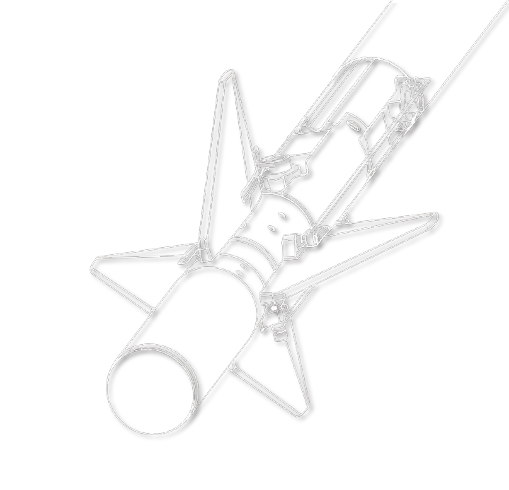
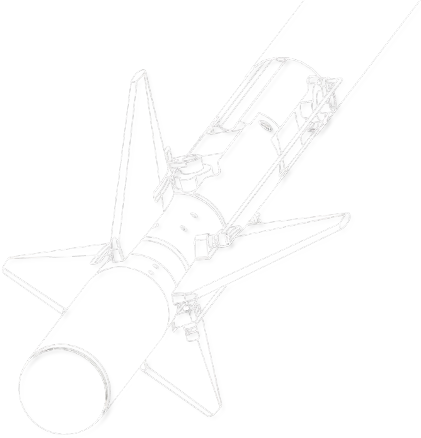
quote updates

diff --git a/printing.html b/printing.html
@@ -43,8 +43,14 @@
                 Rapid 3D Prototyping at the University of Houston
             </h3>
             <br>
-            <a target="_blank" rel="noopener noreferrer" href="https://forms.gle/TJZeQ2GE15b8MYX97" class="button"><b>Request Quote</b></a>
-            <p>*Quotes are sent within 1 Business Day or less</p>
+            <p>
+                Accelerate your product development through rapid 3D printing protoyping. Ensure your design is ready for fabrication to meet your project needs.
+            </p>
+            <br>
+            <a target="_blank" rel="noopener noreferrer" href="https://forms.gle/TJZeQ2GE15b8MYX97" class="button">
+                <b>Get Your Personalized Quote</b>
+            </a>
+            <p>Quotes are processed within 1 Business Day or less</p>
         </div>
         <img class="hide-on-small"  src="images/examplecoverimage-rmbg.png" alt="Model image">
     </section>
@@ -57,7 +63,7 @@
             <div class="materials">
                 <h3>Materials</h3>
                 <ul>
-                    <li>PLA</li>
+                    <li>PLA+</li>
                     <li>PETG-CF</li>
                     <li>TPU 95A</li>
                     <li>PC</li>
@@ -108,7 +114,7 @@
             </thead>
             <tbody>
                 <tr>
-                    <td>PLA</td><td>$7.59</td><td>$1.00</td><td>$0.05</td>
+                    <td>PLA+</td><td>$7.59</td><td>$1.00</td><td>$0.05</td>
                     <td class="hide-on-small">
                         Prototypes, Aesthetic parts
                     </td>

diff --git a/printingstyles.css b/printingstyles.css
@@ -11,12 +11,15 @@ footer {
 
 /* Quote section styling */
 #quote {
-    display: flex;
-    justify-content: space-between;
-    align-items: center;
+    display: grid;
+    grid-template-columns: repeat(2, 1fr);
     text-align: left;
-    padding: 0;
-    border: 0;
+    justify-content: left;
+    margin: 0 auto;
+    gap: 0;
+}
+#quote img {
+    justify-self: end;
 }
 #quote h1 {
     font-size: 6vh;
@@ -95,6 +98,13 @@ footer {
 
 /* Mobile settings */
 @media (max-aspect-ratio: 1 / 1) {
+    .grid-display p{
+        font-size: 0.8em; /* Reduce font size for smaller screens */
+        margin: 2px; /* Space after paragraph */
+    }
+    #quote {
+        display: inline-block;
+    }
     #materials-table {
         max-width: fit-content;
         font-size: 0.6em; /* Reduce font size for smaller screens */
@@ -108,9 +118,5 @@ footer {
         margin: 0 auto;
         margin-top: 20px;
         gap: 10px;
-    }
-    .grid-display p{
-        font-size: 0.8em; /* Reduce font size for smaller screens */
-        margin: 2px; /* Space after paragraph */
     }
 }
